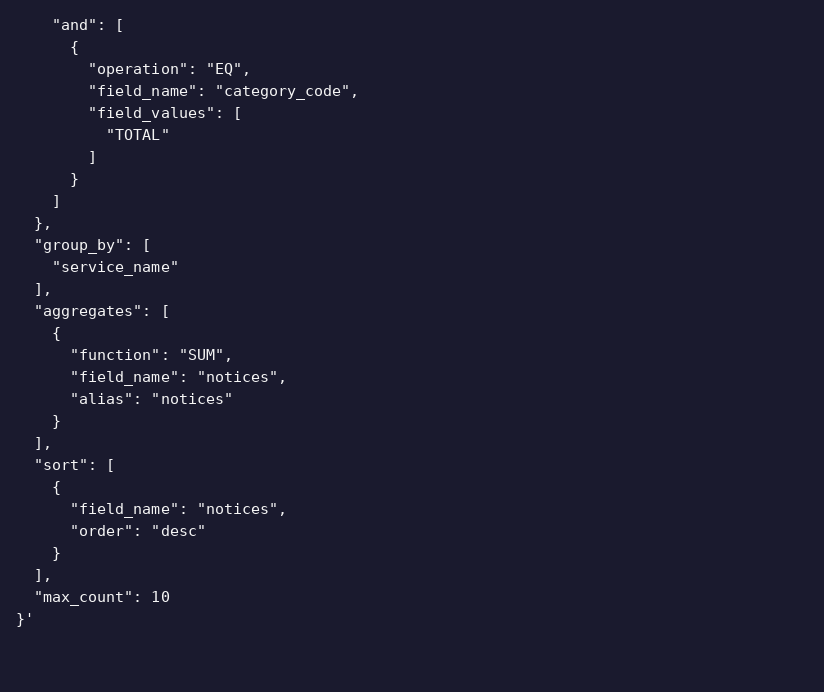
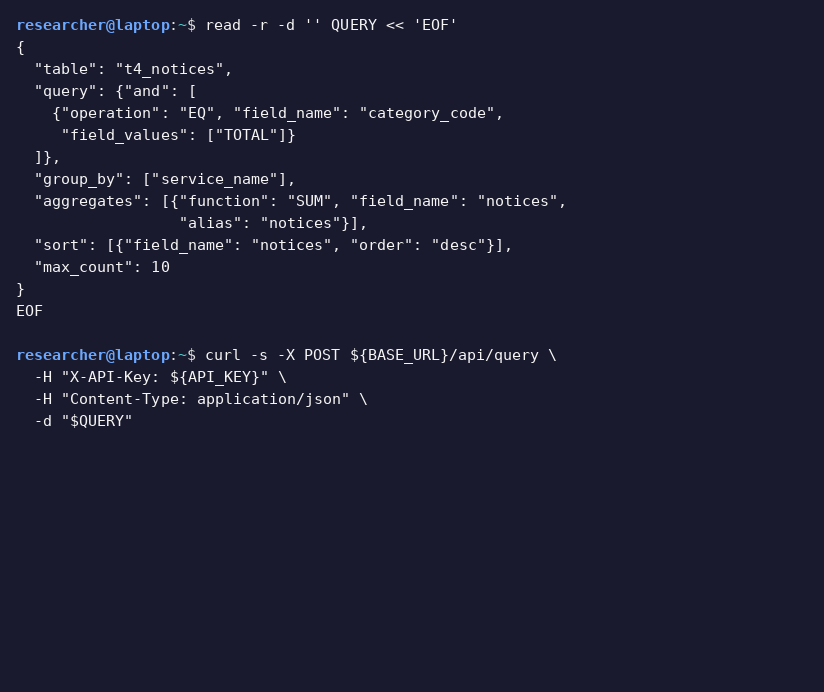
Fix step 6/7 screenshots: realistic URL, heredoc for long JSON body
- Step 6: replace ephemeral localhost URL with a realistic production URL
  and add a GET /api/tables verification command
- Step 7: move the query JSON into a heredoc shell variable so the curl
  line stays within the terminal column width instead of overflowing

https://claude.ai/code/session_012svwbFfMHyj9zUM1nVaei8

diff --git a/scripts/make_screenshots.py b/scripts/make_screenshots.py
@@ -176,13 +176,18 @@ def _truncate(text: str, max_lines: int = ROWS - 4) -> str:
 def build_step6(renderer: Renderer, base: str) -> None:
     """Step 6 — Open terminal, ready to call the API."""
     prompt = f"{C_PROMPT}researcher@laptop{C_RESET}:{C_CYAN}~{C_RESET}$ "
+    # Use a realistic-looking production URL rather than the ephemeral localhost
+    display_url = "https://api.vlop-research.eu"
     body = (
-        f"{C_DIM}# DSA Transparency Research API{C_RESET}\n"
-        f"{C_DIM}# Base URL: {base}{C_RESET}\n"
-        f"{C_DIM}# API key obtained from the researcher portal{C_RESET}\n"
+        f"{C_DIM}# EU DSA VLOP Transparency Research API{C_RESET}\n"
         "\n"
-        f"{prompt}{C_CMD}export API_KEY=\"researcher-api-key-abc123\"{C_RESET}\n"
-        f"{prompt}{C_CMD}export BASE_URL=\"{base}\"{C_RESET}\n"
+        f"{C_DIM}# Set your credentials (key issued via the researcher portal){C_RESET}\n"
+        f"{prompt}{C_CMD}export BASE_URL=\"{display_url}\"{C_RESET}\n"
+        f"{prompt}{C_CMD}export API_KEY=\"rk_live_abc123xyz\"{C_RESET}\n"
+        "\n"
+        f"{C_DIM}# Verify the key works{C_RESET}\n"
+        f"{prompt}{C_CMD}curl -s ${{BASE_URL}}/api/tables \\\n"
+        f"  -H \"X-API-Key: ${{API_KEY}}\" | python3 -m json.tool{C_RESET}\n"
         "\n"
         f"{prompt}"
     )
@@ -191,26 +196,35 @@ def build_step6(renderer: Renderer, base: str) -> None:
 
 def build_step7(renderer: Renderer, base: str, job: dict) -> None:
     """Step 7 — POST /api/query with API key."""
-    query_json = _fmt_json({
-        "table": "t4_notices",
-        "query": {"and": [
-            {"operation": "EQ", "field_name": "category_code", "field_values": ["TOTAL"]}
-        ]},
-        "group_by":   ["service_name"],
-        "aggregates": [{"function": "SUM", "field_name": "notices", "alias": "notices"}],
-        "sort":       [{"field_name": "notices", "order": "desc"}],
-        "max_count":  10,
-    })
+    # Show the query body as a shell variable so the curl line itself stays short
+    query_lines = [
+        "{",
+        '  "table": "t4_notices",',
+        '  "query": {"and": [',
+        '    {"operation": "EQ", "field_name": "category_code",',
+        '     "field_values": ["TOTAL"]}',
+        '  ]},',
+        '  "group_by": ["service_name"],',
+        '  "aggregates": [{"function": "SUM", "field_name": "notices",',
+        '                  "alias": "notices"}],',
+        '  "sort": [{"field_name": "notices", "order": "desc"}],',
+        '  "max_count": 10',
+        "}",
+    ]
     prompt = f"{C_PROMPT}researcher@laptop{C_RESET}:{C_CYAN}~{C_RESET}$ "
-    cmd = (
-        f"curl -s -X POST ${{BASE_URL}}/api/query \\\n"
-        f"  -H \"X-API-Key: ${{API_KEY}}\" \\\n"
-        f"  -H \"Content-Type: application/json\" \\\n"
-        f"  -d '{query_json}'"
-    )
-    body = (
-        f"{prompt}{C_CMD}{cmd}{C_RESET}\n"
-    )
+    # Heredoc assignment then curl
+    lines = [f"{prompt}{C_CMD}read -r -d '' QUERY << 'EOF'"]
+    lines += [f"{C_CMD}{ln}" for ln in query_lines]
+    lines += [
+        f"EOF{C_RESET}",
+        "",
+        f"{prompt}{C_CMD}curl -s -X POST ${{BASE_URL}}/api/query \\",
+        f"  -H \"X-API-Key: ${{API_KEY}}\" \\",
+        f"  -H \"Content-Type: application/json\" \\",
+        f"  -d \"$QUERY\"{C_RESET}",
+        "",
+    ]
+    body = "\n".join(lines)
     _save(renderer, body, OUT_DIR / "step-07-post-query.png")
 
 